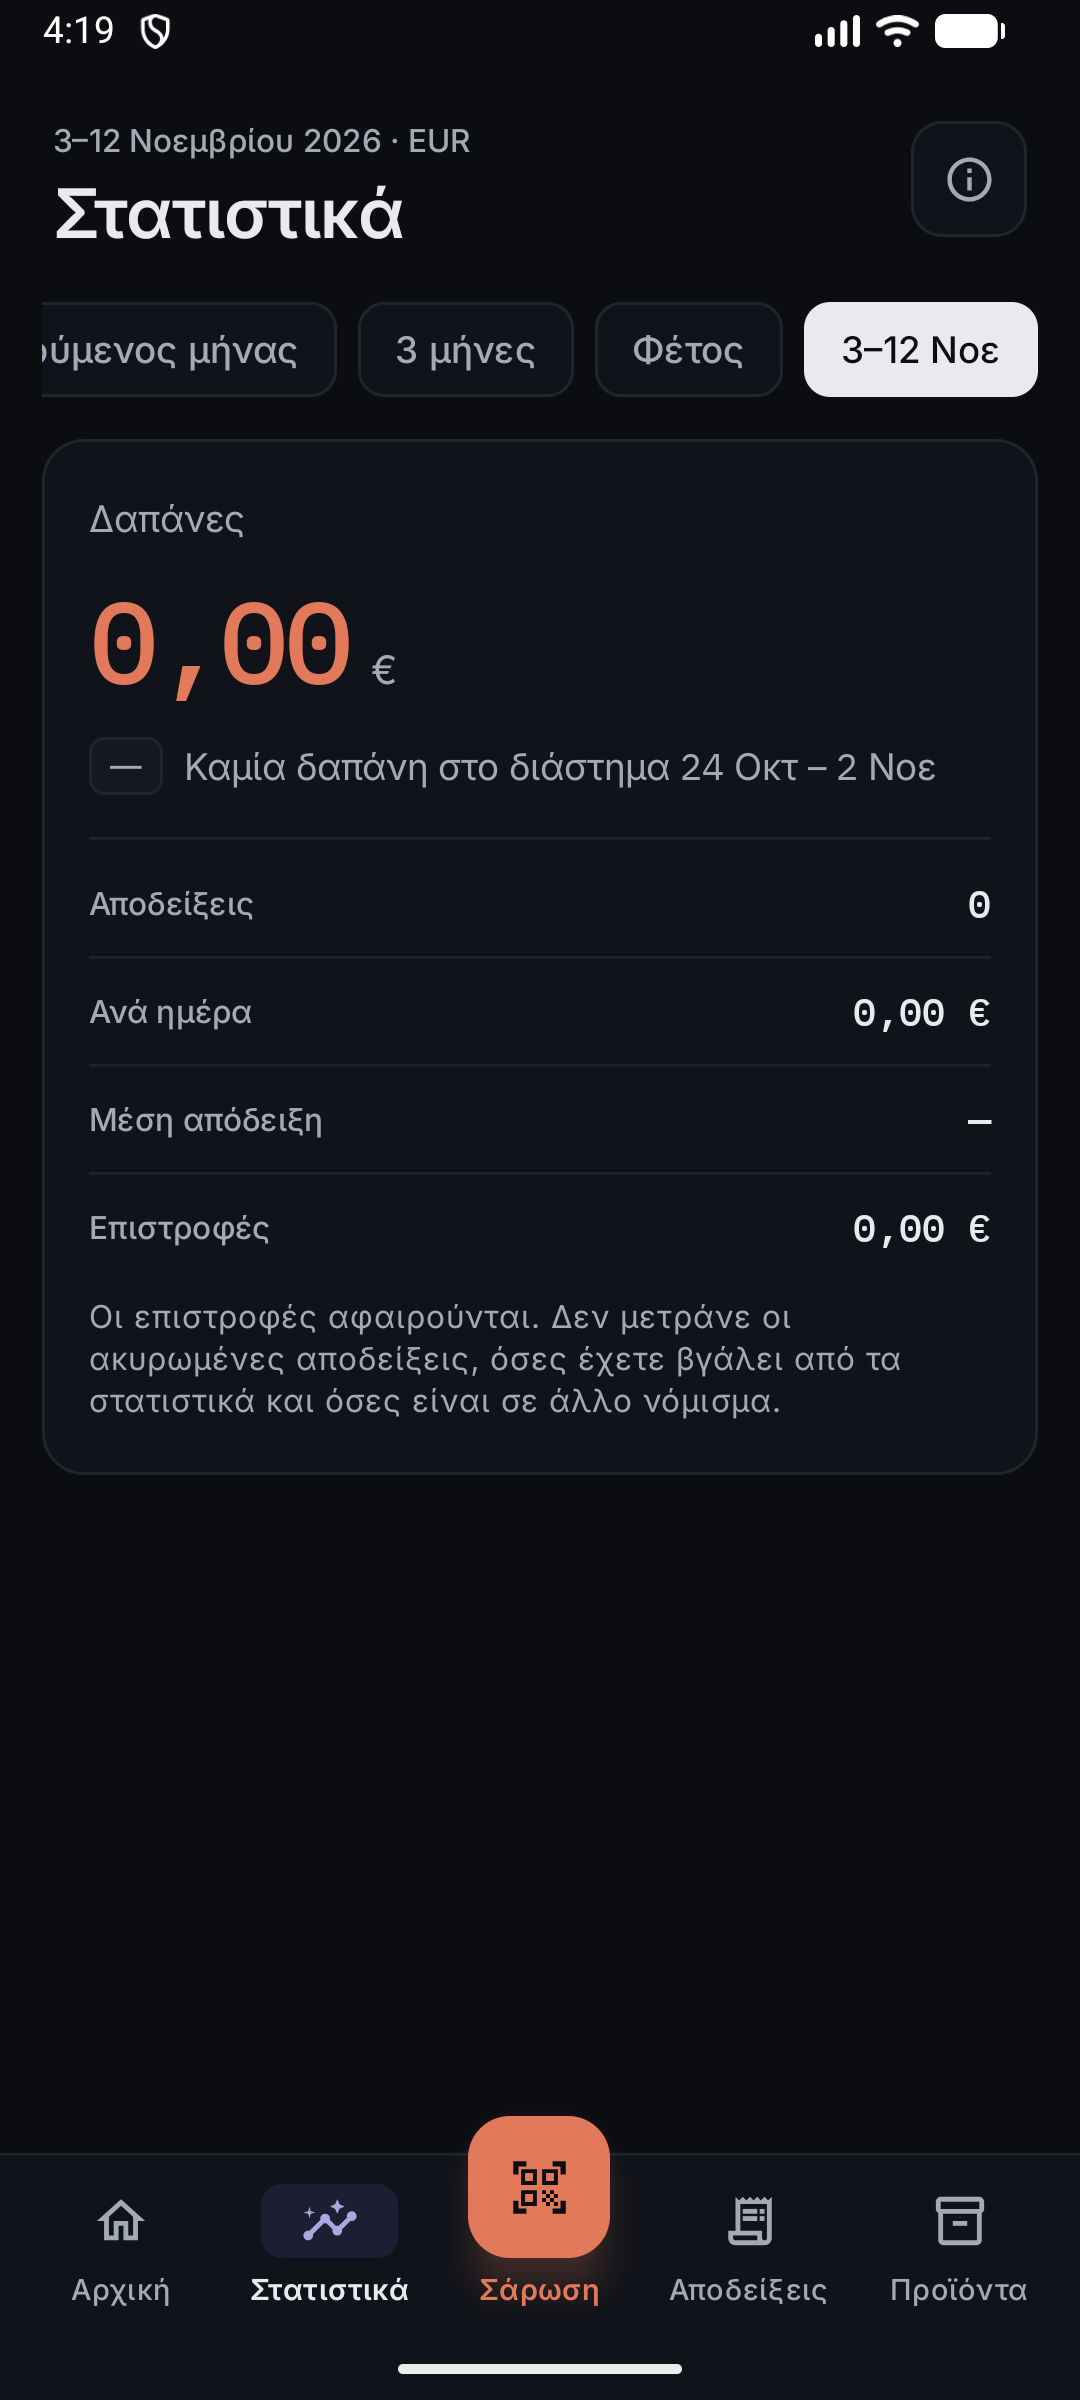
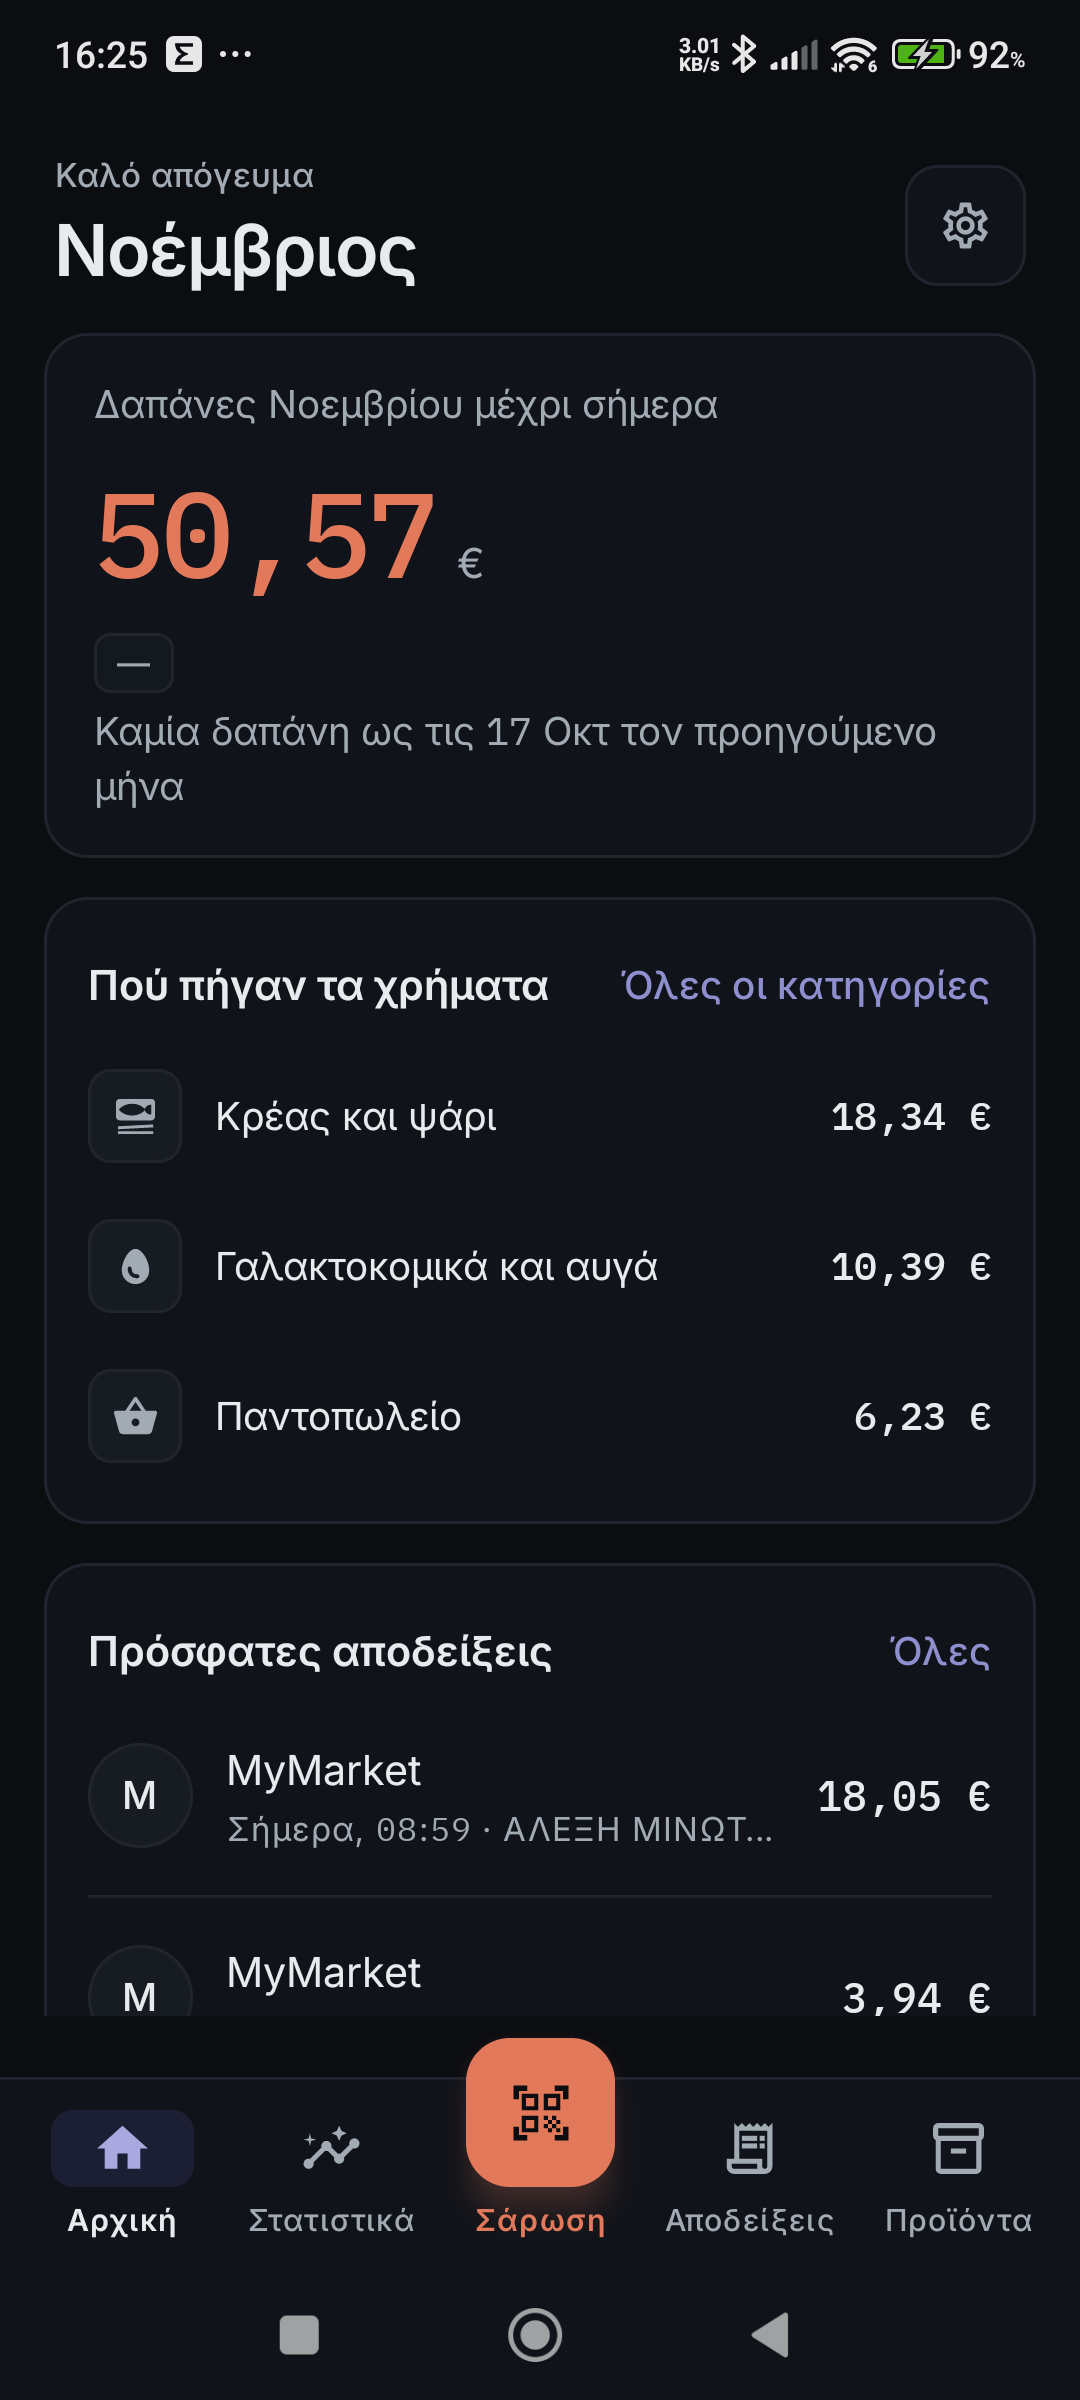
Screenshots

diff --git a/README.md b/README.md
@@ -45,9 +45,9 @@ Eksoda is a standalone, privacy-first Android household expense app built around
 
 ## 📸 Screenshots
 
-| Home | Insights | Receipts | Products |
+| Home | Insights | Insights | Insights |
 |---|---|---|---|
-| ![Home Screen](docs/screenshots/home.png) | ![Insights](docs/screenshots/insights.png) | ![Receipts](docs/screenshots/receipts.png) | ![Products](docs/screenshots/products.png) |
+| ![Home Screen](docs/screenshots/home.png) | ![Insights](docs/screenshots/stats.png) | ![Insights](docs/screenshots/stats1.png) | ![Insights](docs/screenshots/insights.png) |
 
 ---
 
